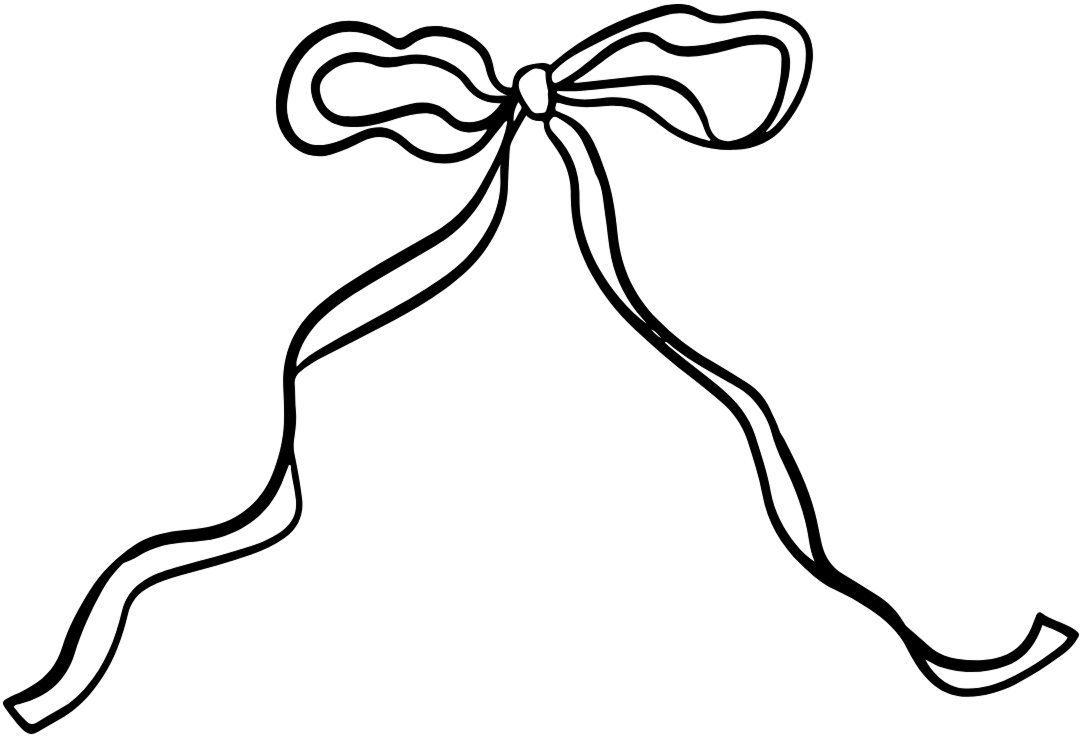
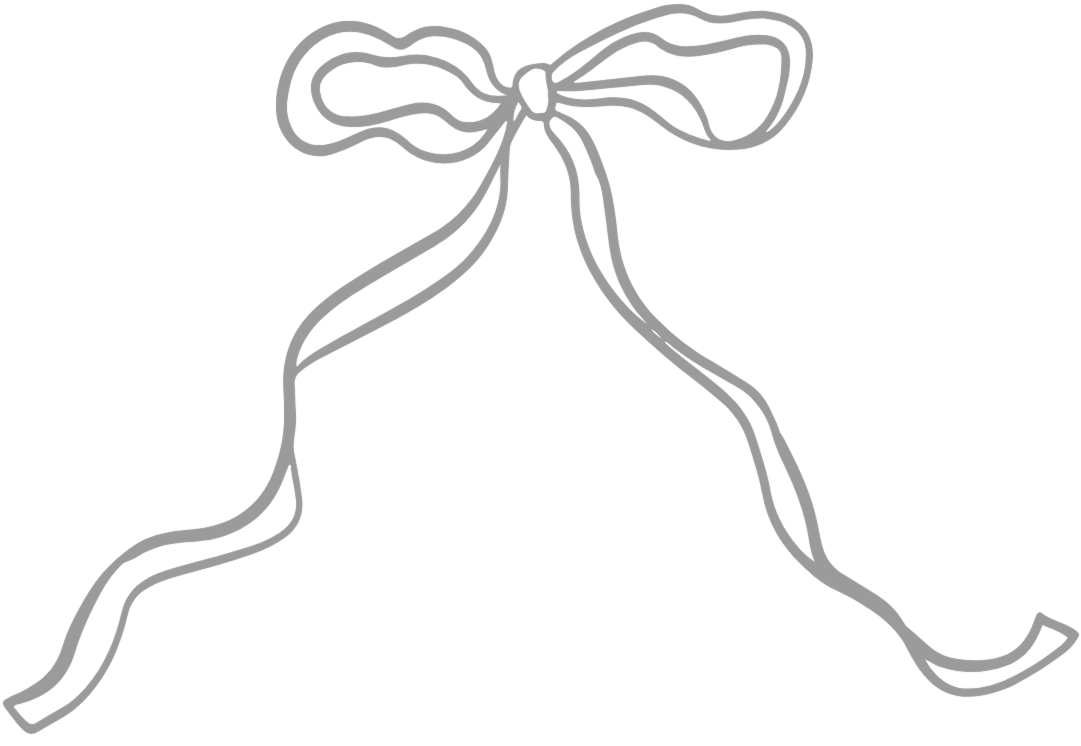
desktop layout

Changed region(s): [[0.0, 0.0, 1.0, 0.9866]]

diff --git a/app/pages/index.vue b/app/pages/index.vue
@@ -3,11 +3,8 @@
     <div
       class="bg-[url('/images/paper-texture.png')] max-w-2xl mx-auto font-nashville text-black min-h-screen"
     >
-      
       <!-- HERO -->
-      <section
-        class="relative mx-auto pt-16 pb-20 text-center overflow-hidden"
-      >
+      <section class="relative mx-auto pt-16 pb-20 text-center overflow-hidden">
         <div class="max-w-[309px] mx-auto">
           <h1 class="font-serenity uppercase mb-2.5 text-[56px] leading-none">
             SHE'S TYING
@@ -20,11 +17,7 @@
 
         <!-- Ribbon -->
         <div class="my-5 flex justify-center">
-          <img
-            src="/images/bow-horizontal.png"
-            class="w-full"
-            alt=""
-          />
+          <img src="/images/bow-horizontal.png" class="w-full" alt="" />
         </div>
 
         <div class="space-y-2 max-w-[309px] ml-auto">
@@ -55,114 +48,118 @@
       </section>
 
       <!-- PROGRAM -->
-      <section class="relative max-w-lg mx-auto px-2.5 py-16 overflow-hidden">
-        <!-- <img
-          src="/images/bow-side.png"
-          class="absolute right-0 top-10 w-40"
+      <section class="relative px-2.5 py-16 overflow-hidden">
+        <img
+          src="/images/bow-side.svg"
+          class="absolute rotate-[315deg] -right-[50vw] max-md:opacity-30 md:-right-92.5 top-10"
           alt=""
-        /> -->
+        />
+        <div class="max-w-lg mx-auto">
+          <h2 class="font-serenity uppercase text-[44px] mb-10">
+            PROGRAM FLOW
+          </h2>
 
-        <h2 class="font-serenity uppercase text-[44px] mb-10">PROGRAM FLOW</h2>
-
-        <div
-          class="space-y-8 max-w-[403px] ml-5 font-nashville uppercase leading-relaxed text-[18px]"
-        >
-          <div>
-            <p>6:30 PM – REGISTRATION &amp; WELCOME</p>
-            <p>ARRIVAL OF GUESTS | PHOTO OPPORTUNITIES | REFRESHMENTS</p>
-          </div>
-
-          <div>
-            <p>7:00 PM – OPENING PROGRAM</p>
-            <p>WELCOME REMARKS &amp; INTRODUCTION OF THE BRIDE</p>
-          </div>
-
-          <div>
-            <p>7:10 PM – INTERACTIVE BRIDAL SHOWER ACTIVITIES</p>
-          </div>
-
-          <div>
-            <p>7:45 PM – DINNER &amp; DESSERT BAR</p>
-          </div>
-
-          <div>
-            <p>8:10 PM – TRIBUTES &amp; WELL WISHES</p>
-
-            <div class="mt-5 space-y-1 pl-2">
-              <p>SPECIAL MESSAGES FROM:</p>
-
-              <ul class="list-disc pl-5 space-y-1">
-                <li>TITA LYN (MOTHER OF THE GROOM)</li>
-                <li>MAMA GUENE (NINANG)</li>
-                <li>ATE JA</li>
-                <li>ATE JI</li>
-                <li>ATE TRINS</li>
-                <li>CINDY &amp; PAU</li>
-                <li>ALWINA (SISTER OF THE BRIDE)</li>
-                <li>TITA AKIE (MOTHER OF THE BRIDE)</li>
-              </ul>
+          <div
+            class="space-y-8 max-w-[403px] ml-5 font-nashville uppercase leading-relaxed text-[18px]"
+          >
+            <div>
+              <p>6:30 PM – REGISTRATION &amp; WELCOME</p>
+              <p>ARRIVAL OF GUESTS | PHOTO OPPORTUNITIES | REFRESHMENTS</p>
             </div>
-          </div>
 
-          <div>
-            <p>8:45 PM – A SPECIAL SURPRISE FOR THE BRIDE</p>
-          </div>
+            <div>
+              <p>7:00 PM – OPENING PROGRAM</p>
+              <p>WELCOME REMARKS &amp; INTRODUCTION OF THE BRIDE</p>
+            </div>
 
-          <div>
-            <p>8:50 PM – CLOSING REMARKS FROM THE BRIDE</p>
-          </div>
+            <div>
+              <p>7:10 PM – INTERACTIVE BRIDAL SHOWER ACTIVITIES</p>
+            </div>
 
-          <div>
-            <p>9:00 PM – FELLOWSHIP &amp; PHOTO SESSION</p>
+            <div>
+              <p>7:45 PM – DINNER &amp; DESSERT BAR</p>
+            </div>
+
+            <div>
+              <p>8:10 PM – TRIBUTES &amp; WELL WISHES</p>
+
+              <div class="mt-5 space-y-1 pl-2">
+                <p>SPECIAL MESSAGES FROM:</p>
+
+                <ul class="list-disc pl-5 space-y-1">
+                  <li>TITA LYN (MOTHER OF THE GROOM)</li>
+                  <li>MAMA GUENE (NINANG)</li>
+                  <li>ATE JA</li>
+                  <li>ATE JI</li>
+                  <li>ATE TRINS</li>
+                  <li>CINDY &amp; PAU</li>
+                  <li>ALWINA (SISTER OF THE BRIDE)</li>
+                  <li>TITA AKIE (MOTHER OF THE BRIDE)</li>
+                </ul>
+              </div>
+            </div>
+
+            <div>
+              <p>8:45 PM – A SPECIAL SURPRISE FOR THE BRIDE</p>
+            </div>
+
+            <div>
+              <p>8:50 PM – CLOSING REMARKS FROM THE BRIDE</p>
+            </div>
+
+            <div>
+              <p>9:00 PM – FELLOWSHIP &amp; PHOTO SESSION</p>
+            </div>
           </div>
         </div>
       </section>
 
       <!-- REMINDERS -->
-      <section
-        class="relative max-w-lg mx-auto px-8 pt-20 pb-24 overflow-hidden"
-      >
-        <!-- <img
-          src="/images/bow-side.png"
-          class="absolute left-0 top-0 w-44"
+      <section class="relative px-8 pt-20 pb-24 overflow-hidden">
+        <img
+          src="/images/bow-side.svg"
+          class="absolute rotate-[33deg] max-md:opacity-30 -left-[62vw] md:-left-101.5 -top-5"
           alt=""
-        /> -->
+        />
+        <div class="max-w-lg mx-auto">
+          <h2 class="font-serenity uppercase text-[42px] text-end mb-12">
+            FRIENDLY REMINDERS
+          </h2>
 
-        <h2 class="font-serenity uppercase text-[42px] text-end mb-12">
-          FRIENDLY REMINDERS
-        </h2>
+          <ul
+            class="space-y-2 ml-auto font-nashville uppercase text-[18px] leading-relaxed list-disc pl-8"
+          >
+            <li>
+              DRESS CODE: BLACK ATTIRE ONLY (PLEASE AVOID WHITE OR IVORY).
+            </li>
 
-        <ul
-          class="space-y-2 ml-auto font-nashville uppercase text-[18px] leading-relaxed list-disc pl-8"
-        >
-          <li>DRESS CODE: BLACK ATTIRE ONLY (PLEASE AVOID WHITE OR IVORY).</li>
+            <li>
+              WE HAVE LIMITED ACCESS TO THE VENUE. KINDLY ARRIVE BEFORE THE
+              PROGRAM STARTS.
+            </li>
 
-          <li>
-            WE HAVE LIMITED ACCESS TO THE VENUE. KINDLY ARRIVE BEFORE THE
-            PROGRAM STARTS.
-          </li>
+            <li>
+              PHOTO READY: EXPECT GAMES, CANDID MOMENTS, AND LOTS OF PICTURES!
+            </li>
 
-          <li>
-            PHOTO READY: EXPECT GAMES, CANDID MOMENTS, AND LOTS OF PICTURES!
-          </li>
+            <li>RSVP: PLEASE CONFIRM BY JULY 3, 2026.</li>
 
-          <li>RSVP: PLEASE CONFIRM BY JULY 3, 2026.</li>
+            <li>
+              GIFTS: YOUR PRESENCE IS THE BEST GIFT, BUT THOUGHTFUL SURPRISES
+              ARE ALWAYS WELCOME.
+            </li>
 
-          <li>
-            GIFTS: YOUR PRESENCE IS THE BEST GIFT, BUT THOUGHTFUL SURPRISES ARE
-            ALWAYS WELCOME.
-          </li>
+            <li>
+              MESSAGE-GIVERS: IF YOU'RE LISTED IN THE PROGRAM, PLEASE PREPARE A
+              2–3 MINUTE MESSAGE FOR THE BRIDE.
+            </li>
 
-          <li>
-            MESSAGE-GIVERS: IF YOU'RE LISTED IN THE PROGRAM, PLEASE PREPARE A
-            2–3 MINUTE MESSAGE FOR THE BRIDE.
-          </li>
-
-          <li>
-            INVITATION ONLY: THIS INVITATION IS NON-TRANSFERABLE TO HELP KEEP
-            THE CELEBRATION INTIMATE.
-          </li>
-        </ul>
+            <li>
+              INVITATION ONLY: THIS INVITATION IS NON-TRANSFERABLE TO HELP KEEP
+              THE CELEBRATION INTIMATE.
+            </li>
+          </ul>
+        </div>
       </section>
     </div>
   </div>